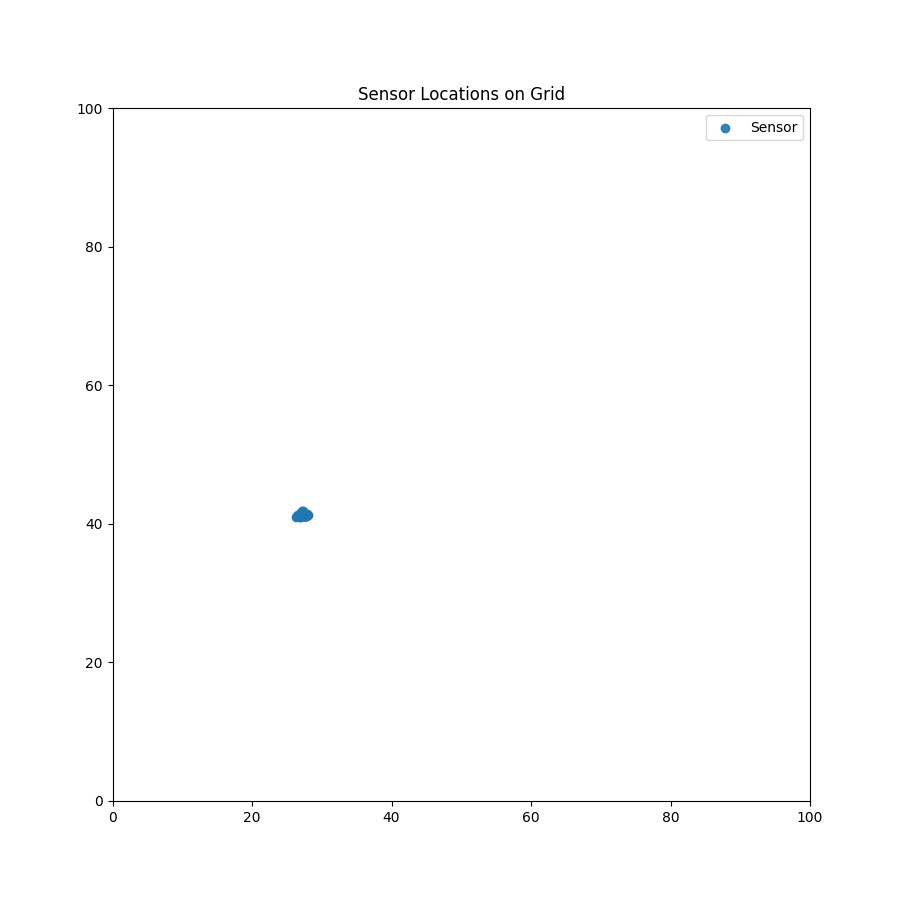
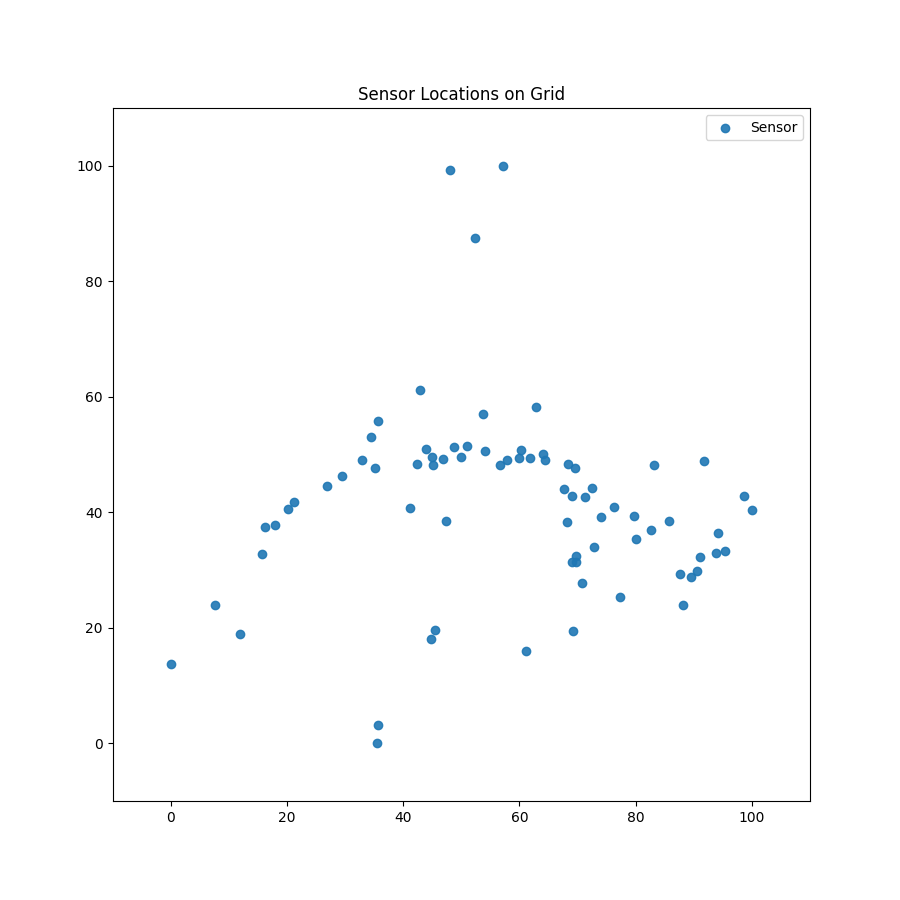
locations are normalized and put on grid

diff --git a/functions/preprocessing.py b/functions/preprocessing.py
@@ -61,7 +61,7 @@ def init_sensors_from_file(file_path:str) -> set:
             sensor_id = row[0]
             latitude = row[1] # for example 41°47'30.7"
             longitude = row[2] # for example 27°16'37.9"
-            # elevation = row[3]
+            #elevation = row[3]
 
             long_as_float = helpers.convert_to_float(
                 raw_data=longitude,
@@ -102,12 +102,30 @@ def set_sensor_scores(sensor_set:set, file_path:str) -> None:
         next(reader, None) # headers
 
         for row in reader:
-            # index = row[0]
+            #index = row[0]
             sensor_id = row[1]
-            # sensor_number = row[2]
-            # sensor_cost = row[3]
+            #sensor_number = row[2]
+            #sensor_cost = row[3]
             sensor_score = row[4]
             
             for sensor in sensor_set:
                 if sensor.get_id() == sensor_id:
                     sensor.set_score(sensor_score)
+
+
+def normalize_sensor_locations(sensor_set:set, grid_size:int) -> None:
+    """
+        Description:
+            Normalizes the location data of `Sensor` objects,
+            so they can be used in the optimization model
+
+        Arguments:
+            - sensor_set : `set` set storing the `Sensor` objects
+            - grid_size : `int` size to normalize the location data
+    """
+    max_x, max_y, min_x, min_y = helpers.get_max_min_locations(sensor_set)
+    for sensor in sensor_set:
+        new_x = grid_size*(sensor.get_x()-min_x)/(max_x-min_x)
+        new_y = grid_size*(sensor.get_y()-min_y)/(max_y-min_y)
+        sensor.set_x(new_x)
+        sensor.set_y(new_y)

diff --git a/main.py b/main.py
@@ -25,23 +25,31 @@ MIN_SCORE = args['min_score']
 
 
 if __name__=='__main__':
-    # ___Initializing___
+    # ___Random Initializing___
+    #grid = Grid(GRID_SIZE)
+    #sensor_set = preprocessing.generate_random_sensors(GRID_SIZE, SENSOR_COUNT, MAX_SCORE, MIN_SCORE)
+    
+    # ___Initializing Through File___
     grid = Grid(GRID_SIZE)
-    # sensor_set = preprocessing.generate_random_sensors(GRID_SIZE, SENSOR_COUNT, MAX_SCORE, MIN_SCORE)
     sensor_set = preprocessing.init_sensors_from_file('docs/input/sensor_locations.tsv')
     preprocessing.set_sensor_scores(sensor_set, 'docs/input/sensor_placements.csv')
+    preprocessing.normalize_sensor_locations(sensor_set, GRID_SIZE)
 
+    for sensor in sensor_set:
+        print(sensor)
 
-    """# ___Building___
+    visualizer.show_locations("Sensor", sensor_set, grid, 'docs/output/img/sensor_placement.png')
+
+    """# ___Building The Model___
     generated_model, gateway_locations = clustering.generate_model(grid)
 
-    # ___Developing___
+    # ___Developing The Model___
     developed_model = clustering.develop_model(generated_model, grid,sensor_set, gateway_locations, DISTANCE_THRESHOLD)
 
-    # ___Optimizing___
+    # ___Optimizing The Model___
     gateway_set = clustering.optimize_model(developed_model, grid, gateway_locations)
 
-    # ___Connecting___
+    # ___Connecting Sensors and Gateways___
     helpers.connect_nodes(sensor_set, gateway_set, DISTANCE_THRESHOLD)
 
     # ___Logging___

diff --git a/functions/helpers.py b/functions/helpers.py
@@ -1,3 +1,4 @@
+import sys
 import numpy as np
 
 
@@ -17,6 +18,30 @@ def convert_to_float(raw_data:str, sec_delim:str, min_delim:str, deg_delim:str) 
     minutes = float(raw_data.rsplit(deg_delim)[-1].rsplit(min_delim)[0])
     degrees = float(raw_data.rsplit(deg_delim)[0])
     return degrees + minutes/60 + seconds/3600
+
+
+def get_max_min_locations(sensor_set:set) -> tuple:
+    """
+        Description:
+            Finds the maximum and minimum x and y data
+            among `Sensor` objects
+
+        Arguments:
+            - sensor_set : `set` set storing the `Sensor` objects
+
+        Return:
+            `tuple` : maximum and minimum x and y data
+    """
+    max_x, max_y, min_x, min_y = 0, 0, sys.maxsize, sys.maxsize
+
+    for sensor in sensor_set:
+        sensor_x, sensor_y = sensor.get_x(), sensor.get_y()
+        if sensor_x > max_x: max_x = sensor_x
+        elif sensor_x < min_x: min_x = sensor_x
+        if sensor_y > max_y: max_y = sensor_y
+        elif sensor_y < min_y: min_y = sensor_y
+
+    return max_x, max_y, min_x, min_y
 
 
 def calculate_distance(point1:tuple, point2:tuple) -> int:

diff --git a/functions/visualizer.py b/functions/visualizer.py
@@ -39,8 +39,8 @@ def show_locations(node_type:str, node_set:set, grid:Grid, file_path:str) -> Non
     """
     plt.figure(figsize=(9, 9))
     plt.title("{} Locations on Grid".format(node_type))
-    plt.xlim(left=0, right=grid.get_width())
-    plt.ylim(bottom=0, top=grid.get_height())
+    plt.xlim(left=0-int(grid.get_width()*0.1), right=int(grid.get_width()*1.1))
+    plt.ylim(bottom=0-int(grid.get_height()*0.1), top=int(grid.get_height()*1.1))
 
     x_locations, y_locations = list(), list()
     for node in node_set:
@@ -74,8 +74,8 @@ def show_grid(sensor_set:set, gateway_set:set, grid:Grid, distance_threshold:int
     """
     plt.figure(figsize=(9, 9))
     plt.title("Grid")
-    plt.xlim(left=0, right=grid.get_width())
-    plt.ylim(bottom=0, top=grid.get_height())
+    plt.xlim(left=0-int(grid.get_width()*0.1), right=int(grid.get_width()*1.1))
+    plt.ylim(bottom=0-int(grid.get_height()*0.1), top=int(grid.get_height()*1.1))
 
     gateway_x_data, gateway_y_data = list(), list()
     for gateway in gateway_set:

diff --git a/structs/node.py b/structs/node.py
@@ -46,6 +46,12 @@ class Node:
     def get_covered_nodes(self) -> set:
         return self.__covered_nodes
 
+    def set_x(self, x:int) -> None:
+        self.__x = x
+
+    def set_y(self, y:int) -> None:
+        self.__y = y
+
 
 class Sensor(Node):
     def __init__(self, id:str, x:int, y:int, score:float=0.0) -> None:

diff --git a/structs/Grid.py b/structs/Grid.py
@@ -1,7 +1,7 @@
 import numpy as np
 
 class Grid:
-    def __init__(self, size:int) -> None:
+    def __init__(self, size) -> None:
         self.__height = size
         self.__width = size
 
